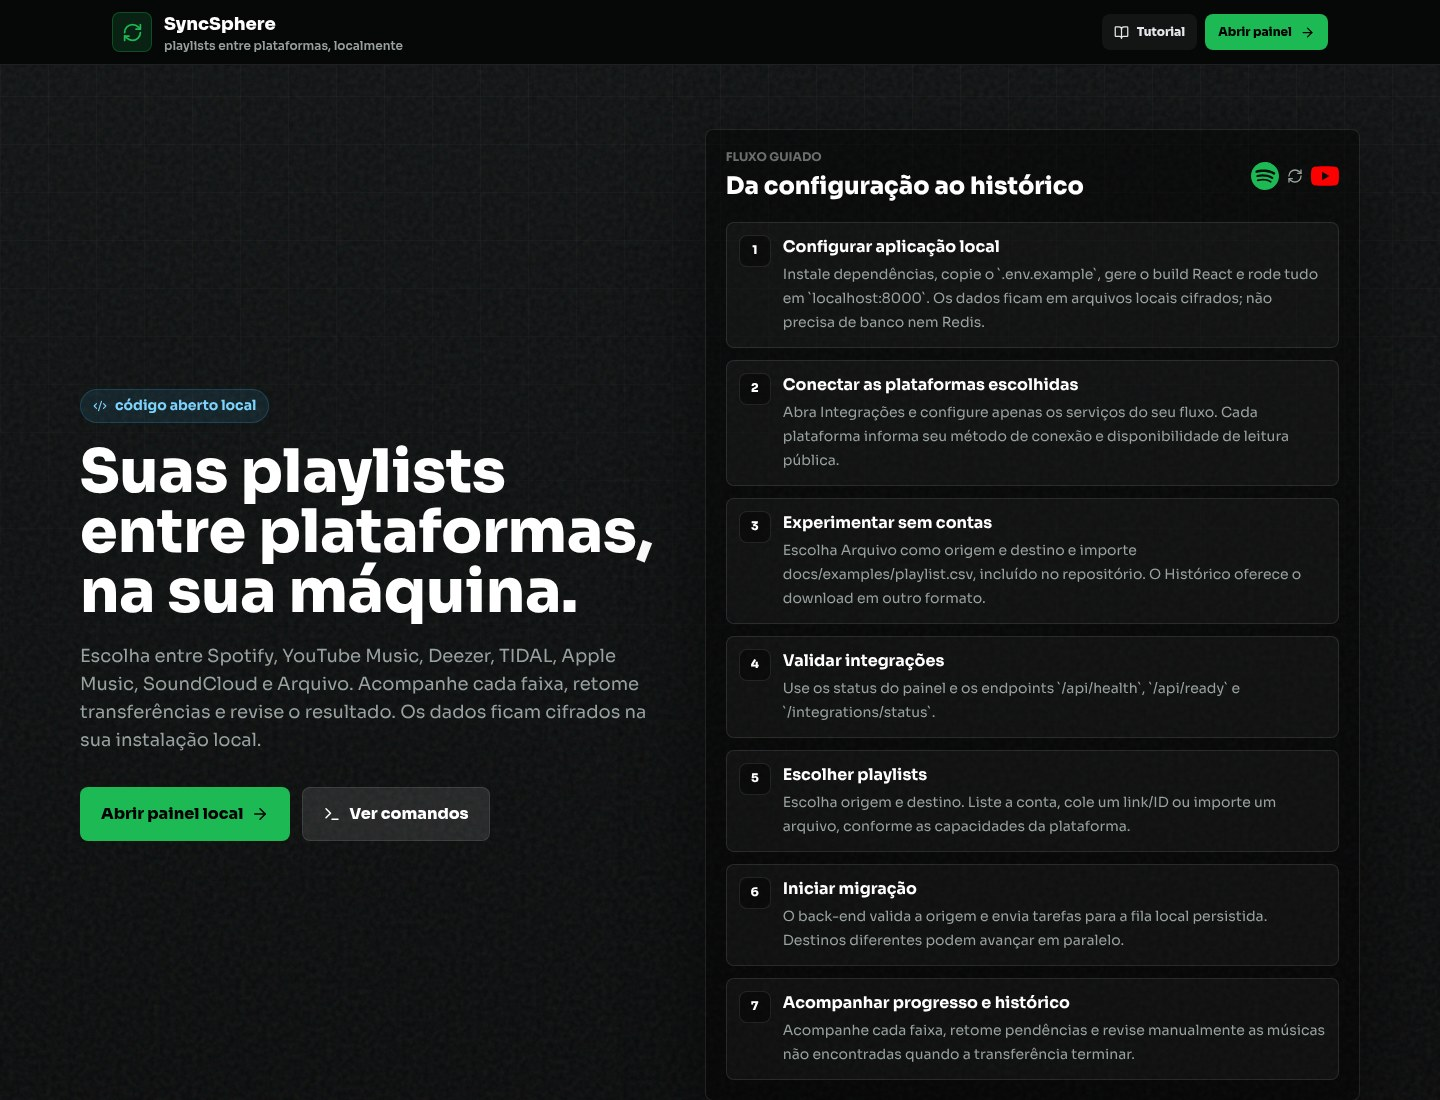
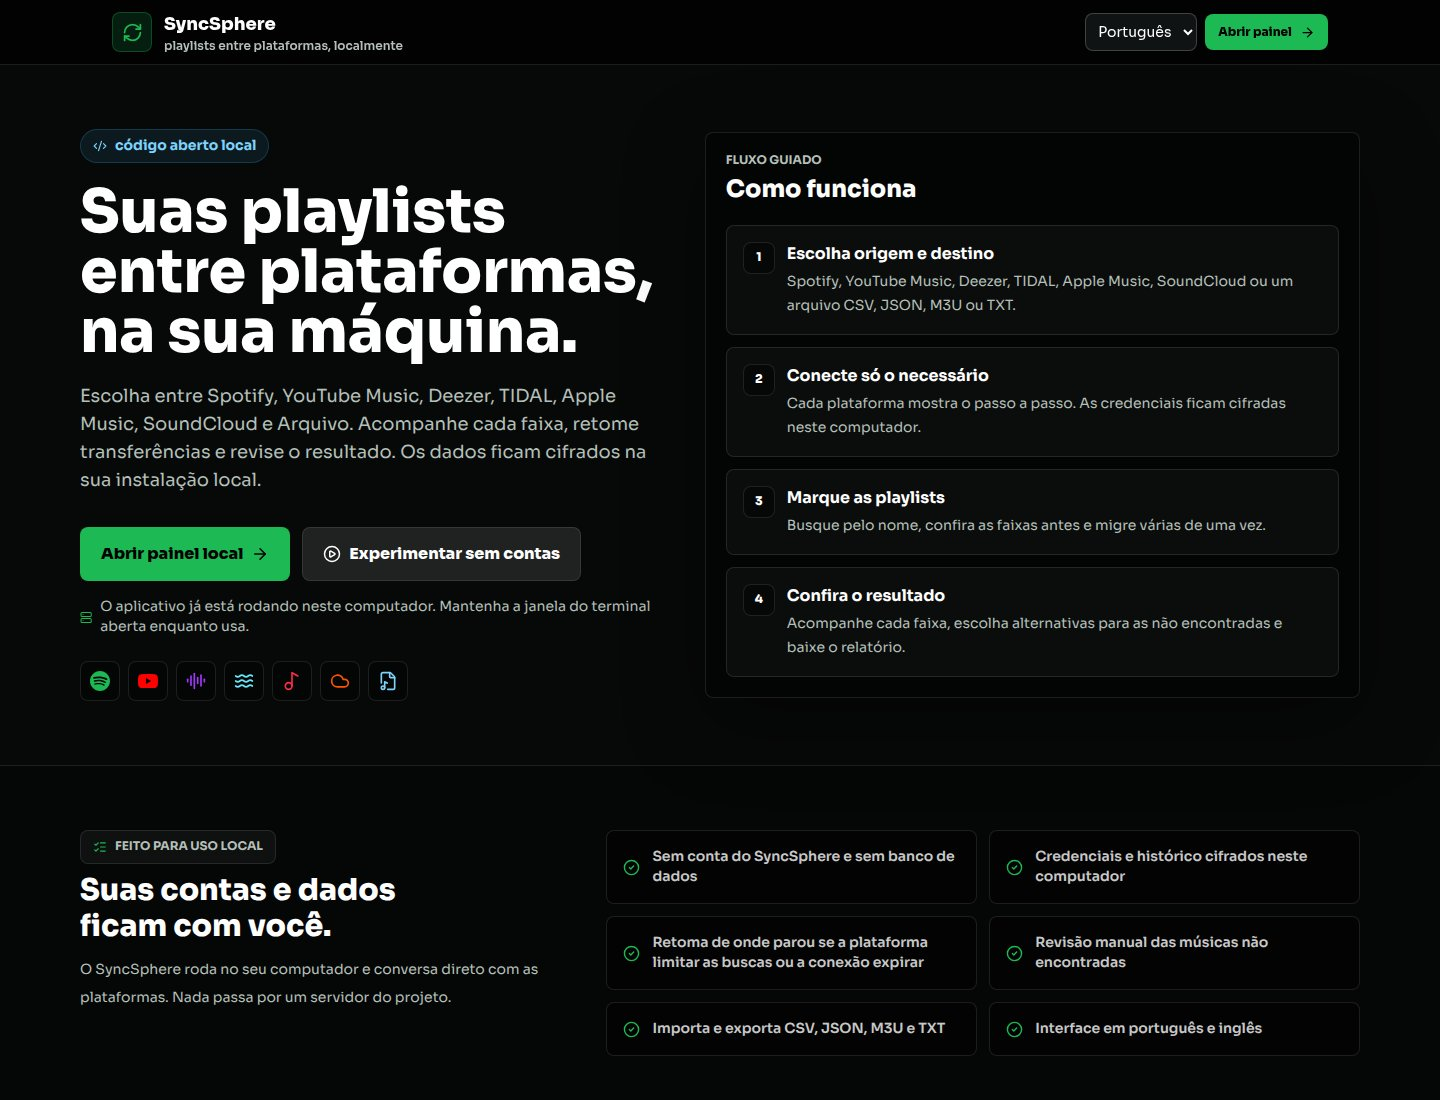
feat: reescrever a página inicial para quem já usa o aplicativo
A página ensinava a instalar um aplicativo que já estava rodando, com
jargão como /api/health e Socket.io, e os problemas comuns ficavam sem
tradução. Agora explica como funciona, o que fica no computador e os
problemas comuns em linguagem simples; os comandos de desenvolvimento
ficam recolhidos. A captura do README mostra a nova página.

diff --git a/frontend/src/pages/Landing.jsx b/frontend/src/pages/Landing.jsx
@@ -4,10 +4,11 @@ import { useNavigate } from 'react-router-dom';
 import { motion } from 'framer-motion';
 import {
     ArrowRight,
-    BookOpen,
     CheckCircle2,
     Code2,
+    LifeBuoy,
     ListChecks,
+    PlayCircle,
     RefreshCw,
     Server,
     Terminal,
@@ -15,23 +16,40 @@ import {
 import Badge from '../components/ui/Badge';
 import Button from '../components/ui/Button';
 import CopySnippet from '../components/ui/CopySnippet';
-import { SpotifyIcon, YoutubeIcon } from '../components/ui/BrandIcons';
+import ProviderIcon from '../components/ui/ProviderIcon';
 import {
-    localSetupFlow,
     setupSnippets,
     troubleshootingItems,
 } from '../components/setup/localSetupContent';
 
-const quickSnippets = setupSnippets.filter((snippet) => (
-    ['Aplicação local', 'Spotify OAuth (PKCE)', 'YouTube Music cookie', 'Front-end Vite'].includes(snippet.title)
+const developerSnippets = setupSnippets.filter((snippet) => (
+    ['Aplicação local', 'Front-end Vite'].includes(snippet.title)
 ));
+
+// Quem vê esta página já está com o aplicativo rodando: o conteúdo explica o uso, não a instalação.
+const howItWorks = [
+    { title: 'Escolha origem e destino', description: 'Spotify, YouTube Music, Deezer, TIDAL, Apple Music, SoundCloud ou um arquivo CSV, JSON, M3U ou TXT.' },
+    { title: 'Conecte só o necessário', description: 'Cada plataforma mostra o passo a passo. As credenciais ficam cifradas neste computador.' },
+    { title: 'Marque as playlists', description: 'Busque pelo nome, confira as faixas antes e migre várias de uma vez.' },
+    { title: 'Confira o resultado', description: 'Acompanhe cada faixa, escolha alternativas para as não encontradas e baixe o relatório.' },
+];
+
+const features = [
+    'Sem conta do SyncSphere e sem banco de dados',
+    'Credenciais e histórico cifrados neste computador',
+    'Retoma de onde parou se a plataforma limitar as buscas ou a conexão expirar',
+    'Revisão manual das músicas não encontradas',
+    'Importa e exporta CSV, JSON, M3U e TXT',
+    'Interface em português e inglês',
+];
+
+const PROVIDER_IDS = ['spotify', 'youtubeMusic', 'deezer', 'tidal', 'appleMusic', 'soundcloud', 'file'];
 
 const Landing = () => {
     const { t } = useText();
     const navigate = useNavigate();
     const goToApp = () => navigate('/dashboard');
     const goToDemo = () => navigate('/dashboard?demo=1');
-    const scrollToTutorial = () => document.getElementById('tutorial-local')?.scrollIntoView({ behavior: 'smooth' });
 
     return (
         <div className="app-shell min-h-screen overflow-x-hidden text-ink">
@@ -52,7 +70,6 @@ const Landing = () => {
                     </button>
 
                     <div className="flex items-center gap-2"><LanguageSelector />
-                        <Button className="hidden md:inline-flex" onClick={scrollToTutorial} variant="ghost" size="sm" leftIcon={<BookOpen size={15} />}>{t("Tutorial")}</Button>
                         <Button aria-label={t("Abrir painel")} onClick={goToApp} variant="primary" size="sm" rightIcon={<ArrowRight size={15} />}><span className="hidden sm:inline">{t("Abrir painel")}</span></Button>
                     </div>
                 </div>
@@ -72,8 +89,15 @@ const Landing = () => {
 
                             <div className="mt-8 flex flex-col gap-3 sm:flex-row">
                                 <Button onClick={goToApp} variant="primary" size="lg" rightIcon={<ArrowRight size={18} />}>{t("Abrir painel local")}</Button>
-                                <Button onClick={goToDemo} variant="secondary" size="lg">{t("Experimentar sem contas")}</Button>
+                                <Button onClick={goToDemo} variant="secondary" size="lg" leftIcon={<PlayCircle size={18} />}>{t("Experimentar sem contas")}</Button>
                             </div>
+                            <p className="mt-4 inline-flex items-center gap-2 text-sm text-muted">
+                                <Server size={15} aria-hidden="true" className="text-spotify" />{t("O aplicativo já está rodando neste computador. Mantenha a janela do terminal aberta enquanto usa.")}</p>
+                            <ul className="mt-6 flex flex-wrap gap-2" aria-label={t("Plataformas disponíveis")}>
+                                {PROVIDER_IDS.map((id) => <li key={id} className="grid h-10 w-10 place-items-center rounded-lg border border-white/10 bg-black/35" title={id === 'file' ? t("Arquivo") : undefined}>
+                                    <ProviderIcon providerId={id} size="sm" />
+                                </li>)}
+                            </ul>
                         </motion.div>
 
                         <motion.div
@@ -82,105 +106,80 @@ const Landing = () => {
                             transition={{ delay: 0.1 }}
                             className="rounded-lg border border-white/10 bg-black/45 p-5 shadow-panel"
                         >
-                            <div className="mb-5 flex items-center justify-between gap-4">
-                                <div>
-                                    <p className="text-xs font-bold uppercase text-muted">{t("Fluxo guiado")}</p>
-                                    <h2 className="mt-1 text-2xl font-black text-white">{t("Da configuração ao histórico")}</h2>
-                                </div>
-                                <div className="flex items-center gap-2">
-                                    <SpotifyIcon className="h-7 w-7 fill-spotify" />
-                                    <RefreshCw size={16} className="text-muted" />
-                                    <YoutubeIcon className="h-7 w-7 fill-youtube" />
-                                </div>
+                            <div className="mb-5">
+                                <p className="text-xs font-bold uppercase text-muted">{t("Fluxo guiado")}</p>
+                                <h2 className="mt-1 text-2xl font-black text-white">{t("Como funciona")}</h2>
                             </div>
 
-                            <div className="grid gap-3">
-                                {localSetupFlow.map((step, index) => (
-                                    <div key={step.title} className="flex gap-3 rounded-lg border border-white/10 bg-white/[0.035] p-3">
-                                        <div className="grid h-8 w-8 shrink-0 place-items-center rounded-lg border border-white/10 bg-black/40 text-xs font-black text-white">
+                            <ol className="grid gap-3">
+                                {howItWorks.map((step, index) => (
+                                    <li key={step.title} className="flex gap-3 rounded-lg border border-white/10 bg-white/[0.035] p-4">
+                                        <div aria-hidden="true" className="grid h-8 w-8 shrink-0 place-items-center rounded-lg border border-white/10 bg-black/40 text-xs font-black text-white">
                                             {index + 1}
                                         </div>
                                         <div className="min-w-0">
                                             <p className="font-bold text-white">{t(step.title)}</p>
                                             <p className="mt-1 text-sm leading-6 text-muted">{t(step.description)}</p>
                                         </div>
-                                    </div>
+                                    </li>
                                 ))}
-                            </div>
+                            </ol>
                         </motion.div>
                     </div>
                 </section>
 
-                <section id="tutorial-local" className="border-y border-white/10 bg-black/25 px-5 py-12 md:px-8 md:py-16">
-                    <div className="mx-auto max-w-7xl">
-                        <div className="mb-8 flex flex-col gap-4 lg:flex-row lg:items-end lg:justify-between">
-                            <div>
-                                <p className="mb-2 inline-flex items-center gap-2 rounded-lg border border-white/10 bg-white/[0.045] px-3 py-2 text-xs font-bold uppercase text-muted">
-                                    <Terminal size={14} className="text-spotify" />{t("Tutorial no front-end")}</p>
-                                <h2 className="text-3xl font-black text-white md:text-4xl">{t("Comandos copiáveis para rodar localmente")}</h2>
-                                <p className="mt-2 max-w-3xl text-sm leading-6 text-muted">{t("Os exemplos usam valores demonstrativos. Preencha segredos e cookies apenas no seu `.env` local.")}</p>
-                            </div>
-                            <Badge tone="warning" size="md">{t("sem tokens reais")}</Badge>
+                <section className="border-y border-white/10 bg-black/25 px-5 py-12 md:px-8 md:py-16">
+                    <div className="mx-auto grid max-w-7xl gap-6 lg:grid-cols-[0.8fr_1.2fr]">
+                        <div>
+                            <p className="mb-2 inline-flex items-center gap-2 rounded-lg border border-white/10 bg-white/[0.045] px-3 py-2 text-xs font-bold uppercase text-muted">
+                                <ListChecks size={14} className="text-spotify" />{t("Feito para uso local")}</p>
+                            <h2 className="text-3xl font-black text-white">{t("Suas contas e dados ficam com você.")}</h2>
+                            <p className="mt-3 text-sm leading-7 text-muted">{t("O SyncSphere roda no seu computador e conversa direto com as plataformas. Nada passa por um servidor do projeto.")}</p>
                         </div>
 
-                        <div className="grid gap-5 lg:grid-cols-2">
-                            {quickSnippets.map((snippet) => (
+                        <ul className="grid gap-3 md:grid-cols-2">
+                            {features.map((item) => (
+                                <li key={item} className="flex items-center gap-3 rounded-lg border border-white/10 bg-black/35 p-4">
+                                    <CheckCircle2 size={17} aria-hidden="true" className="shrink-0 text-spotify" />
+                                    <span className="text-sm font-semibold text-white/80">{t(item)}</span>
+                                </li>
+                            ))}
+                        </ul>
+                    </div>
+                </section>
+
+                <section className="px-5 py-12 md:px-8 md:py-16">
+                    <div className="mx-auto max-w-7xl rounded-lg border border-white/10 bg-white/[0.045] p-6">
+                        <h2 className="flex items-center gap-3 text-2xl font-black text-white"><LifeBuoy size={22} aria-hidden="true" className="text-spotify" />{t("Problemas comuns")}</h2>
+                        <div className="mt-5 grid gap-3 md:grid-cols-2">
+                            {troubleshootingItems.map((item) => (
+                                <div key={item.title} className="rounded-lg border border-white/10 bg-black/35 p-4">
+                                    <p className="font-bold text-white">{t(item.title)}</p>
+                                    <p className="mt-1 text-sm leading-6 text-muted">{t(item.text)}</p>
+                                </div>
+                            ))}
+                        </div>
+                        <p className="mt-5 text-sm text-muted">{t("Mais orientação no painel, em Ajuda e segurança.")}</p>
+                    </div>
+                </section>
+
+                <section className="px-5 pb-16 md:px-8">
+                    <details className="mx-auto max-w-7xl rounded-lg border border-white/10 bg-black/25 p-6">
+                        <summary className="cursor-pointer text-lg font-bold text-white">
+                            <Terminal size={17} aria-hidden="true" className="mr-2 inline text-spotify" />{t("Para quem desenvolve")}</summary>
+                        <p className="mt-3 max-w-3xl text-sm leading-6 text-muted">{t("Comandos para instalar pelo código e para editar a interface com atualização automática. Os exemplos usam valores demonstrativos.")}</p>
+                        <div className="mt-5 grid gap-5 lg:grid-cols-2">
+                            {developerSnippets.map((snippet) => (
                                 <section key={snippet.title} className="space-y-3">
-                                    <div className="flex items-start gap-3">
-                                        <div className="mt-0.5 grid h-9 w-9 shrink-0 place-items-center rounded-lg border border-white/10 bg-white/[0.045]">
-                                            <Server size={17} className="text-spotify" />
-                                        </div>
-                                        <div>
-                                            <h3 className="font-black text-white">{t(snippet.title)}</h3>
-                                            <p className="mt-1 text-sm leading-6 text-muted">{t(snippet.description)}</p>
-                                        </div>
+                                    <div>
+                                        <h3 className="font-black text-white">{t(snippet.title)}</h3>
+                                        <p className="mt-1 text-sm leading-6 text-muted">{t(snippet.description)}</p>
                                     </div>
                                     <CopySnippet code={snippet.code} label={t(snippet.label)} language={snippet.language} />
                                 </section>
                             ))}
                         </div>
-                    </div>
-                </section>
-
-                <section className="px-5 py-12 md:px-8 md:py-16">
-                    <div className="mx-auto grid max-w-7xl gap-6 lg:grid-cols-[0.8fr_1.2fr]">
-                        <div>
-                            <p className="mb-2 inline-flex items-center gap-2 rounded-lg border border-white/10 bg-white/[0.045] px-3 py-2 text-xs font-bold uppercase text-muted">
-                                <ListChecks size={14} className="text-spotify" />{t("Validação")}</p>
-                            <h2 className="text-3xl font-black text-white">{t("O painel continua o tutorial.")}</h2>
-                            <p className="mt-3 text-sm leading-7 text-muted">{t("A aba Início orienta a configuração, a escolha dos provedores e a seleção de playlists. Você pode experimentar a conversão entre arquivos sem conectar contas.")}</p>
-                        </div>
-
-                        <div className="grid gap-3 md:grid-cols-2">
-                            {[
-                                t("Back-end online/offline via /api/health"),
-                                t("Dados e fila locais (sem banco externo)"),
-                                t("Sete provedores e configuração por plataforma"),
-                                t("Conversão CSV, JSON, M3U e TXT sem contas"),
-                                t("Progresso em tempo real via Socket.io"),
-                                t("Histórico, pendências e revisão manual de faixas"),
-                            ].map((item) => (
-                                <div key={item} className="flex items-center gap-3 rounded-lg border border-white/10 bg-black/35 p-4">
-                                    <CheckCircle2 size={17} className="shrink-0 text-spotify" />
-                                    <span className="text-sm font-semibold text-white/80">{item}</span>
-                                </div>
-                            ))}
-                        </div>
-                    </div>
-                </section>
-
-                <section className="px-5 pb-16 md:px-8">
-                    <div className="mx-auto max-w-7xl rounded-lg border border-white/10 bg-white/[0.045] p-6">
-                        <h2 className="text-2xl font-black text-white">{t("Solução de problemas rápida")}</h2>
-                        <div className="mt-5 grid gap-3 md:grid-cols-2">
-                            {troubleshootingItems.map((item) => (
-                                <div key={item.title} className="rounded-lg border border-white/10 bg-black/35 p-4">
-                                    <p className="font-bold text-white">{item.title}</p>
-                                    <p className="mt-1 text-sm leading-6 text-muted">{item.text}</p>
-                                </div>
-                            ))}
-                        </div>
-                    </div>
+                    </details>
                 </section>
             </main>
         </div>

diff --git a/frontend/src/components/setup/localSetupContent.js b/frontend/src/components/setup/localSetupContent.js
@@ -33,7 +33,7 @@ export const setupSnippets = [
     {
         title: 'Aplicação local',
         description: 'Execute na raiz do projeto para instalar, buildar e servir tudo em `localhost:8000`.',
-        label: 'raiz',
+        label: 'raiz do projeto',
         code: `npm run setup
 cp backend/.env.example backend/.env
 # preencha backend/.env
@@ -95,19 +95,19 @@ export const usefulLinks = [
 
 export const troubleshootingItems = [
     {
-        title: 'Front-end não conecta no back-end',
-        text: 'Confirme `VITE_API_URL=http://localhost:8000/api/v1`, `FRONTEND_URL=http://localhost:8000` e se o back-end subiu sem erro.',
+        title: 'O painel não abre ou fica em branco',
+        text: 'Confira se a janela do terminal continua aberta. Se outro programa usa a porta 8000, defina outra porta em backend/.env (por exemplo, PORT=8001) e inicie de novo.',
     },
     {
-        title: 'Spotify volta para erro ou tela negada',
-        text: '`SPOTIFY_CLIENT_ID` precisa estar no `.env` e a URL de callback (`http://127.0.0.1:8000/api/v1/integrations/spotify/callback`) precisa estar idêntica em "Redirect URIs" no painel do Spotify. Para YouTube Music -> Spotify, reconecte se faltar escopo de escrita.',
+        title: 'O Spotify recusa a conexão',
+        text: 'O endereço de retorno cadastrado no app do Spotify precisa ser idêntico ao mostrado em Integrações, com 127.0.0.1 em vez de localhost. Outra conta do Spotify precisa estar em User Management no app.',
     },
     {
-        title: 'YouTube Music aparece como pendente',
-        text: 'Cole o cookie em Integrações (vale na hora) ou preencha `YTMUSIC_COOKIE` e reinicie o back-end. Nunca cole cookies reais em docs, commits ou issues.',
+        title: 'O YouTube Music pede o cookie de novo',
+        text: 'O cookie deixa de valer quando você sai da conta no navegador. Copie de novo em Integrações; colar o comando cURL inteiro também funciona. Nunca compartilhe cookies em issues ou capturas.',
     },
     {
-        title: 'Dados locais e histórico',
-        text: 'Credenciais e histórico ficam cifrados em `backend/data/` (ignorado pelo Git). Para limpar o histórico, rode `npm run history:clear` no back-end.',
+        title: 'Quero apagar migrações do histórico',
+        text: 'No Histórico, abra os detalhes de uma migração terminada e use Remover do histórico. As playlists criadas nas plataformas continuam na sua conta.',
     },
 ];
